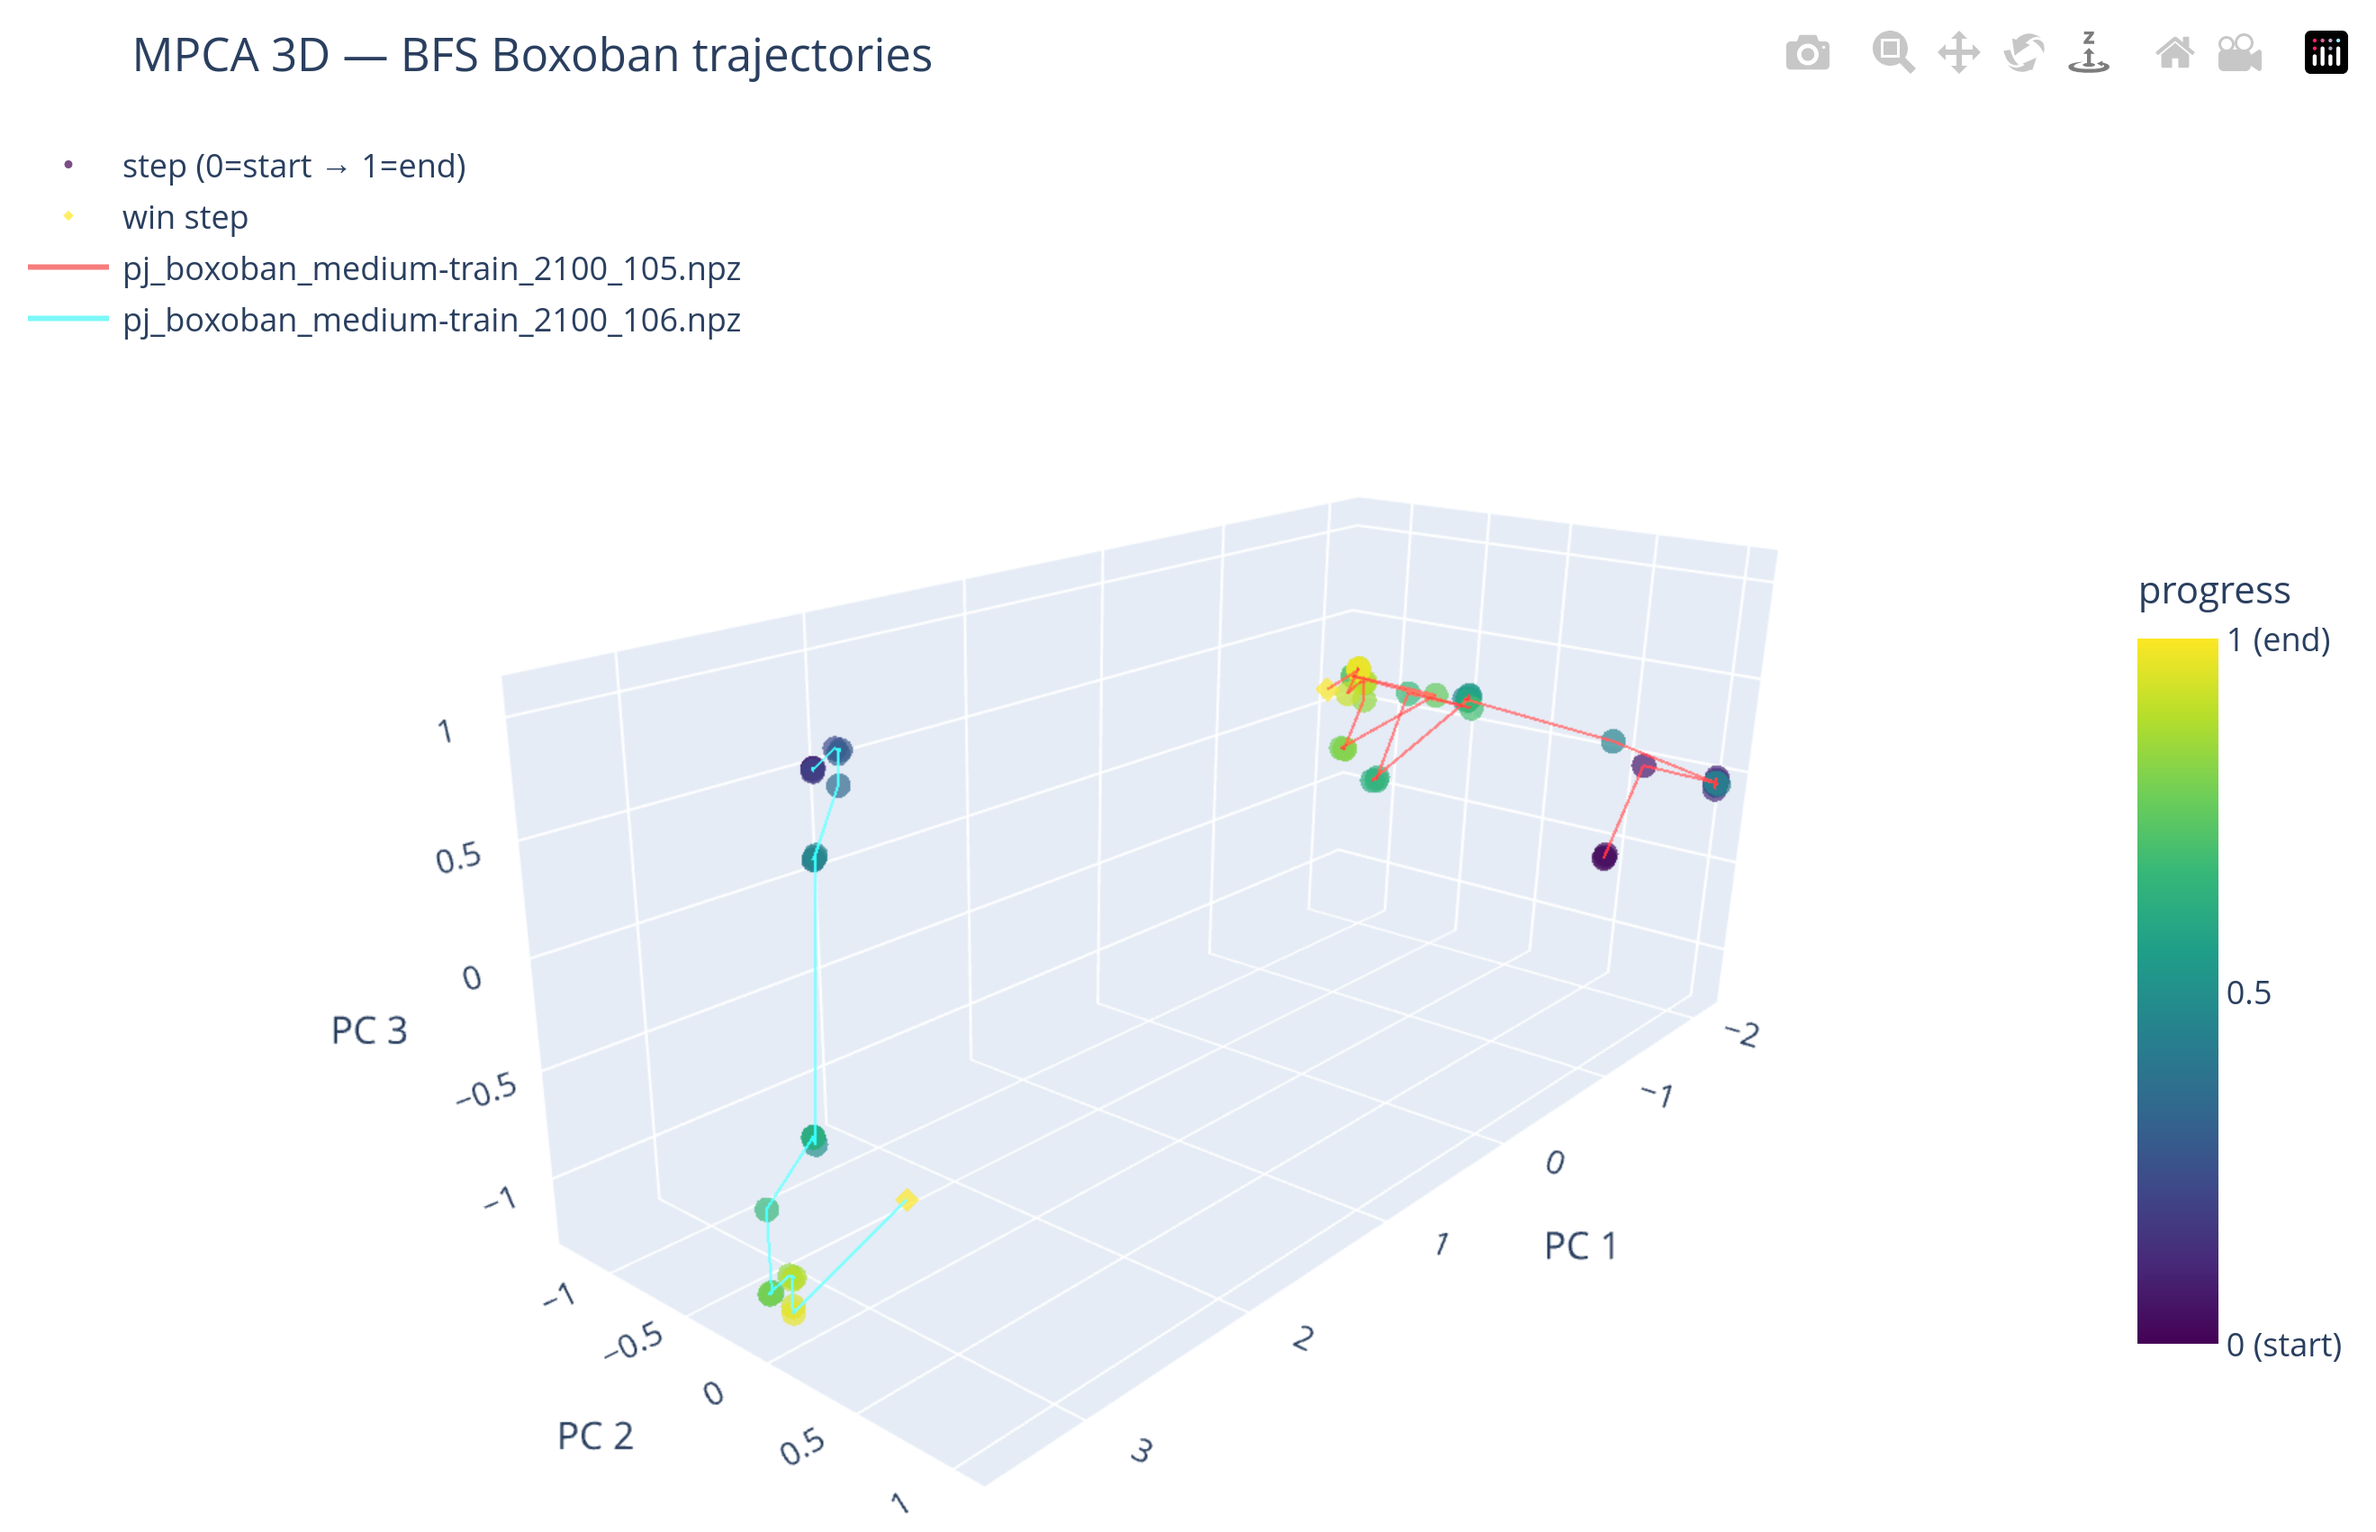
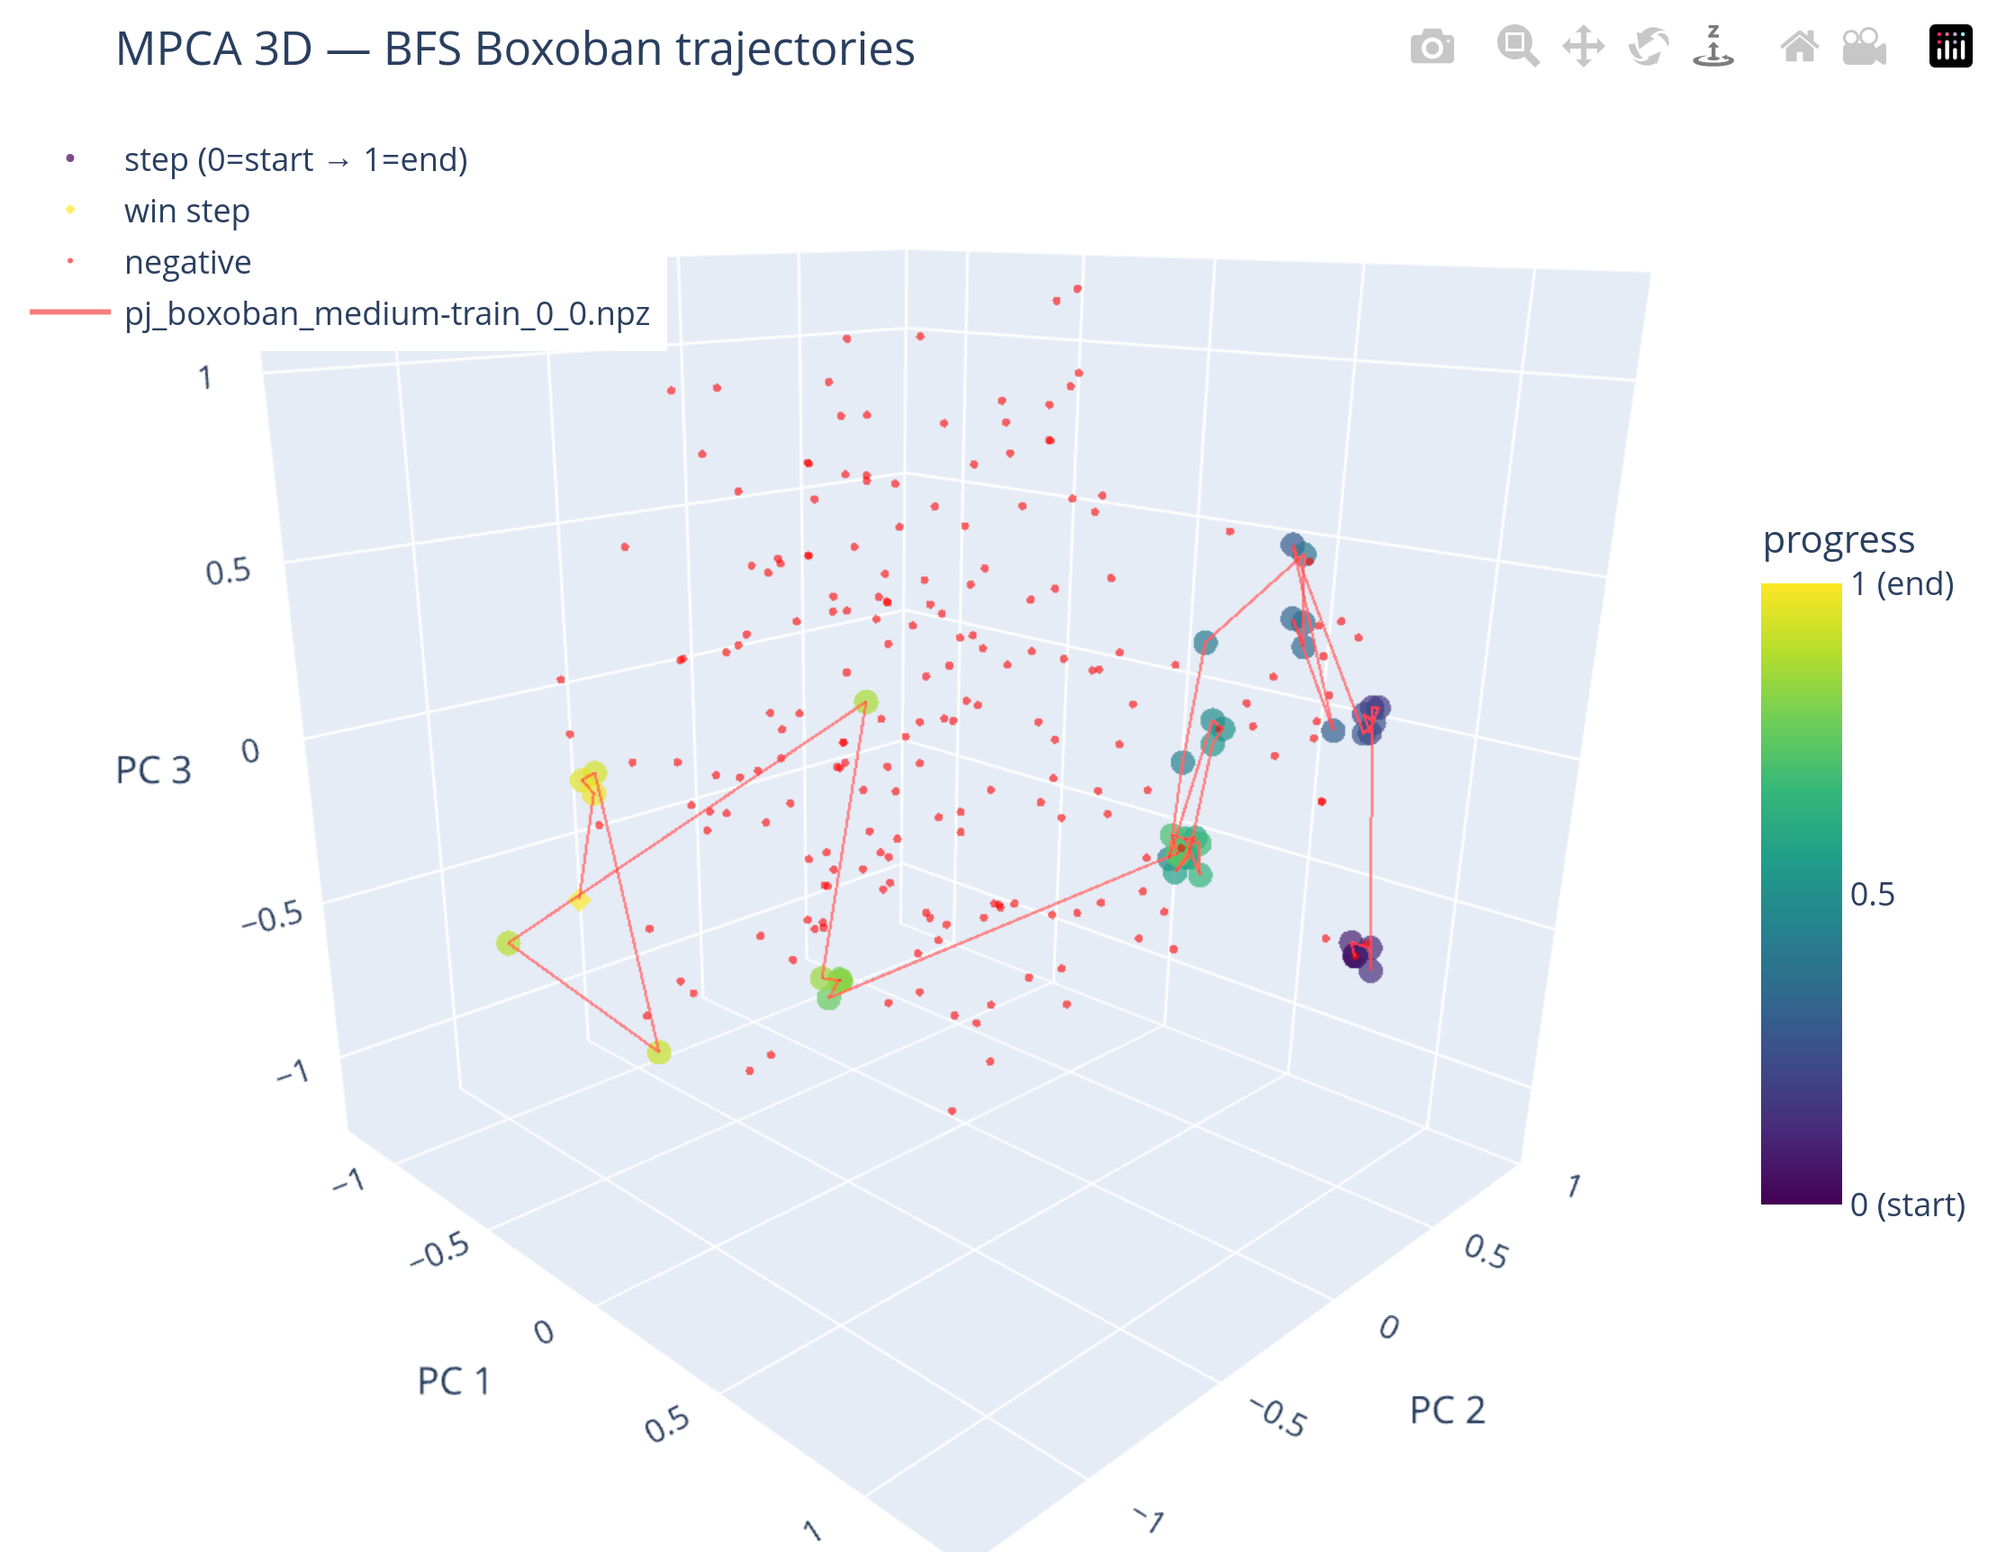
graph

diff --git a/chapters/methodology.tex b/chapters/methodology.tex
@@ -1,47 +1,93 @@
 \section{PuzzleJAX}
-
+The PuzzleJAX framework, developed by Julian Togelius et al., represents a significant shift in how puzzle-solving agents are trained and evaluated in artificial intelligence research. It is a high-performance, GPU-accelerated benchmark designed specifically to facilitate AI reasoning within combinatorial puzzle environments. By leveraging the JAX library, the framework allows for massive parallelism and end-to-end differentiability, enabling the simulation of thousands of environments simultaneously on a single accelerator.
 \section{Boxoban}
+The PuzzleJAX environment is utilized to load the Boxoban dataset, a collection of 9 million procedurally generated Sokoban levels released by Google. These levels are constrained to a $10\times10$ grid, providing a standardized yet vast state space for evaluating an agent's ability to generalize across millions of unique configurations.
 
 \section{Agent Architecture}
-To create an agent that can plan ahead in the sparse reward landscape, we will use an AlphaGo-style agent where a treesearch is driven by a policy function $\pi$ and a value function $V$ that takes in the current puzzle state $s_t$ preprocessed by some compression function $c$. The policy function outputs an action logit $a$ that the treesearch prioritizes for searching and the value function outputs a scalar value that determines the 'usefulness' of the input state. 
+To address the sparse reward landscape inherent in Sokoban, we implement an AlphaGo-style architecture where tree search is guided by a policy network ($\pi_\theta$) and a value network ($V_\phi$). These functions operate on a state $s_t$ that has been preprocessed by a compression function $c$. The policy network outputs action logits $a_t$ to prioritize the search space, while the value network provides a scalar $v_t$ estimating the utility of the current state:
 
 $$a_t = \pi_\theta(c(s_t))$$
 
 $$v_t = V_\phi(c(s_t))$$
 
-In order to solve Sokoban puzzles, one must first understand the dataset. The dataset is Boxoban, a set of 9 million Sokoban puzzles in a 10x10 2d space. These levels can be used to yield solution trajectories using Breath First Search. The BFS search outputs pairs of puzzle state and correct actions. The idea is to pretrain the policy network and the value network using this solution BFS trajectory and finetune the value network with reinforcement learning in order to create an agent that can solve unseen sokoban levels more efficiently compared to MCTS or BFS.
+The agent is initialized through supervised learning on solution trajectories generated via Breadth-First Search (BFS). These trajectories consist of state-action pairs that define the optimal path to the goal. Following pretraining, the value network is refined using reinforcement learning and search bootstrapping to improve efficiency on unseen levels.
 
-Principle Component Analysis can reveal characteristics of values against each other. By performing Multilinear Principle Component Analysis on the solution trajectories, we can discover interesting features of the trajectories.
+\section{Trajectory Analysis via MPCA}
+Multilinear Principal Component Analysis (MPCA) is an effective feature extraction tool for tensor analysis. \cite{lu2008mpca} When applied to the Sokoban solution trajectory, it reveals that solution trajectories within the state space are not stochastic but follow a distinct curvilinear relationship. (See Figure \ref{fig:mpca_less})
 
 \begin{figure}[!ht] % [h] forces the image to be placed "here"
     \centering
     \includegraphics[width=1\textwidth]{images/mpca_less.png} 
-    \caption{MPCA visualization of a Boxoban solution trajectory. Each point represents a state $s_t$, with colors transitioning from start (dark) to finish (yellow). The curvilinear relationship demonstrates that states are sequentially dependent; this inherent temporal structure justifies the use of recurrent architectures (RNNs) or Transformers, which utilize a hidden state $h_{t-1}$ to provide the necessary contextual memory for accurate action prediction.}
+    \caption{MPCA visualization of a Boxoban solution trajectory. Each point represents a state $s_t$, with colors transitioning from start (dark) to finish (yellow). States that are not part of the solution is colored red. The curvilinear relationship demonstrates that states are sequentially dependent. This inherent temporal structure justifies the use of recurrent architectures (RNNs) or Transformers, which utilize a hidden state $h_{t-1}$ to provide the necessary contextual memory for accurate action prediction.}
     \label{fig:mpca_less}
 \end{figure}
 
-First, the graph reveals that solution steps of the same puzzle are more closely related to each other than to other puzzles. This may seem obvious due to the trajectories maintaining distinct wall structure through its multihot layers, however this becomes more relevant when considering another discovery.
+\begin{figure}[!ht] % [h] forces the image to be placed "here"
+    \centering
+    \includegraphics[width=1\textwidth]{images/mpca_global.png} 
+    \caption{MPCA visualization of multiple Boxoban solution trajectories. Each puzzles are clustered into different sets}
+    \label{fig:mpca_global}
+\end{figure}
 
-More importantly, most trajectories form a curve in the PCA space. With the starting state and the ending state being furthest in most puzzles, the trajectories form a curve. This is true when plotting a trajectory of a single level. This signifies that it is possible to predict the puzzle solution trajectory on the PCA space by fitting on the trajectory.
+The analysis indicates that steps within a single puzzle are more closely clustered than those across different puzzles, largely due to the persistence of static wall structures in the multi-hot input layers. More importantly, the smooth curve formed from the start to the goal state suggests that action prediction is highly context-dependent. To capture this temporal information, we introduce a hidden state $h_t$ to provide the networks with memory capacity:
 
-Since each trajectories are uniquely apart from each other while displaying strong curvilinear relation, one can conclude that the contextual data is critical for successfully predicting the solution move. This prompts the value function to become self-dependent to its previous state to have the memory capacity. This can be done in several methods such as using recurrent neural network or transformers. The value function can then be defined as follows.
+$$a_t, h_t = \pi_\theta(c(s_t), h_{t-1})$$
 
+$$v_t, h_t = V_\phi(c(s_t), h_{t-1})$$
 
-$$a_t, h_t = \pi_\theta(c(s_t) | h_{t-1})$$
+\section{Negative Data}
+However, the BFS trajectory data is not sufficient for the agent to determine a solution step and a non-solution step. As earlier studies emphasized, Sokoban presents a unique challenge in which some steps are irreversible and can softlock the game where the only possible move is to reset. A well-trained value function must be able to distinguish such states during the tree search phase to prune the nodes leading to the deadlock states. Similarly to earlier research where deadlock databased was used, we generated dataset of deadlock states and non-solution steps to feed to the value function pretraining as counter examples of the solution.
 
-$$v_t, h_t = V_\phi(c(s_t) | h_{t-1})$$
+\section{Input Type}
+Each state of the Sokoban puzzle can either be represented in multihot tensor or a human-readable image render of the gameplay. The type of input affects the effective input compression type.
 
 \section{Input Compression Stategies}
+To assist in training of the value and policy networks, we investigate the effect of three main input compression methods. The compressed inputs are fed through recurrent networks. All compression methods are compared against networks with no compression as a baseline.
 
 \subsection{CNN}
+CNN is often used for capturing local geometrical features through training kernels. By maintaining the spatial topology of the Sokoban grid, the CNN can extract patterns.
 
 \subsection{Autoencoder}
+Autoencoder is a popular input compression method where the encoder learns unrecoverable features from the input states through recreating the state from the compressed state. 
 
 \subsection{DCT}
-
+Often used in image compression, DCT transforms the 
 \section{Agent Architecture}
 
 \subsection{Policy Network}
 
 \subsection{Value Network}
 
+
+
+5.5 Input Compression Strategies
+
+In this section, you need to detail the mathematical and structural specifics of how the 10×10 Boxoban grid is reduced before reaching the neural networks.
+
+    5.5.1 CNN (Baseline): Describe the standard multi-headed convolutional neural network architecture used for action probability and plan length prediction. Explain that this serves as your benchmark for spatial pattern recognition.
+
+    5.5.2 Autoencoder: Detail the architecture of your encoder-decoder model. Explain how the grid state is mapped to a low-dimensional latent space (the "bottleneck") and then reconstructed, focusing on how these embeddings capture the "unrecoverable configurations" or deadlocks inherent in Sokoban.
+
+    5.5.3 DCT (Discrete Cosine Transform): Describe the process of converting grid data into the frequency domain. Highlight that this method aims to achieve higher scores with a lower total weight count in the neural networks by prioritizing low-frequency spatial features over noise.
+
+5.6 Agent Architecture (Implementation Details)
+
+While section 5.3 covers the theory, this section should cover the execution.
+
+    5.6.1 Policy Network: Describe the supervised learning process using BFS solution trajectories from Boxoban. Explain how the network learns to map a compressed state c(st) to a specific action at.
+
+    5.6.2 Value Network: Explain the reinforcement learning and bootstrapping process. Detail how the AlphaGo-styled tree search updates the value function Vϕ based on the results of rollouts and simulations to estimate state "usefulness".
+
+6.1 Results and Ablation
+
+This is the most critical missing data in your draft.
+
+    6.1.1 Ablation: Test the performance impact of removing specific components, such as training without the recurrent hidden state ht. This proves whether the "curvilinear" trajectory information discovered in your MPCA analysis actually improves accuracy.
+
+    6.1.2 Results: Compare your findings against the A3C solve rate (60%) and the standard I2A solve rate (85%). Provide a table showing solve rates across different compression methods (CNN vs. Autoencoder vs. DCT) and their respective "weight counts".
+
+6.2 Discussion and Limitations
+
+    6.2.1 Interpretation: Discuss which compression strategy best handled the "Planning Depth" and "Sparse Reward" problems of Sokoban.
+
+    6.2.2 Limitations: Address the "irreversibility" of the game. Note if certain compression types caused the agent to miss subtle deadlocks, such as pushing a box into a wall or corner where it becomes immobile.

diff --git a/chapters/introduction.tex b/chapters/introduction.tex
@@ -5,7 +5,25 @@
 \section{Contributions}
 
 
+1.1 Motivation
 
+    The "Holy Grail" of Planning: Explain that Sokoban is a primary benchmark for AI because it is NP-hard and PSPACE-complete, meaning it represents the upper limits of complexity in discrete planning.
+
+    Resource Constraints: Highlight the growing need for efficient AI. While models like I2A achieve high success rates (85%), they often require massive computational resources. Your motivation is to see if we can maintain this performance while significantly reducing the "weight count" or memory footprint of the agent.
+
+1.2 Problem Statement
+
+    Sparse Rewards and Irreversibility: Define the core difficulties of the environment—namely that one wrong push can lead to an "unrecoverable configuration" (deadlock), and the agent rarely receives feedback until the puzzle is solved.
+
+    Input Dimensionality: Discuss the challenge of the 10×10 multi-hot grid. Explain that standard models might be "over-parameterized" for these grids, motivating your study into whether DCT or Autoencoders can distill the most vital spatial information for the policy and value networks.
+
+1.3 Contributions
+
+    PuzzleJAX Implementation: State that you have implemented these agents within the PuzzleJAX framework, utilizing GPU acceleration to handle the 9 million levels of the Boxoban dataset.
+
+    Comparative Analysis: Clarify that your primary contribution is the rigorous evaluation of different compression strategies—Frequency Domain (DCT) vs. Latent Space (Autoencoders)—and documenting their impact on an AlphaGo-style agent's ability to plan.
+
+    Trajectory Insights: Mention your use of MPCA to visualize and justify the move toward recurrent architectures (RNNs/Transformers) based on the curvilinear nature of solution paths.
 
 \begin{figure}[h] % [h] forces the image to be placed "here"
     \centering

diff --git a/chapters/solvingsokoban.tex b/chapters/solvingsokoban.tex
@@ -15,9 +15,6 @@ Similar methods that use pattern recognition of tiles for searching the solution
 
 \input{chapters/mcts.tex}
 
-
-\input{chapters/i2a-boxoban.tex}
-
 An analysis of single-player Monte Carlo tree search performance in sokoban.
 \cite{crippa2022analysis} (which came out after google's research but should mention) 
 Sokoban is difficult for three main reasons: Irreversibility, Sparse rewards, Planning Depth

diff --git a/main.tex b/main.tex
@@ -36,12 +36,6 @@
 
 \tableofcontents
 
-
-\listoffigures
-
-
-\listoftables
-
 \doublespacing
 \pagenumbering{arabic} 
 \chapter{Introduction}
